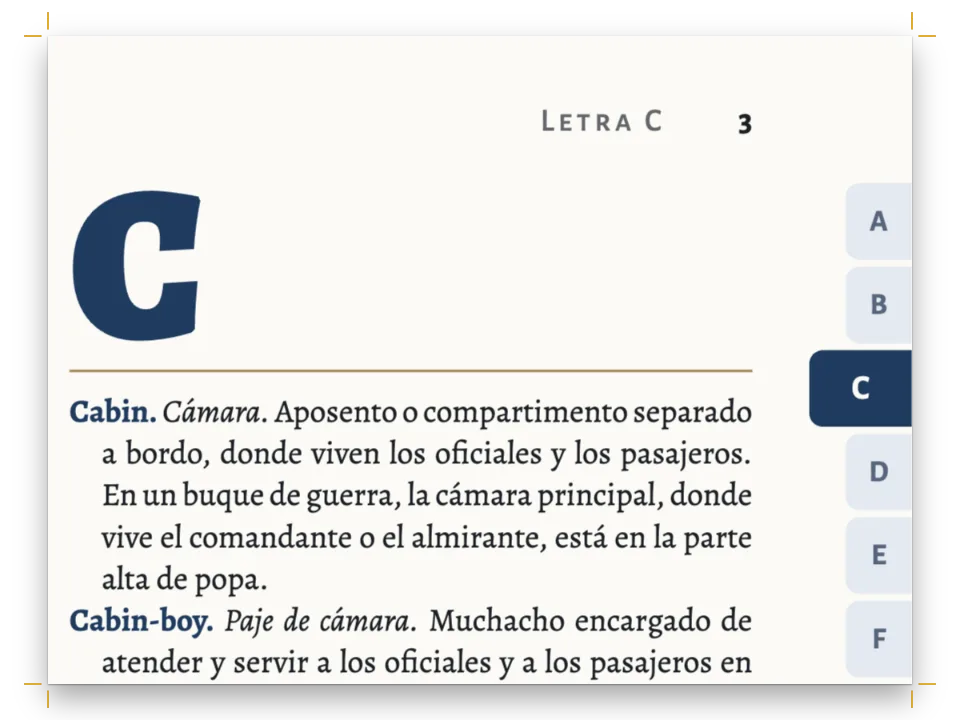
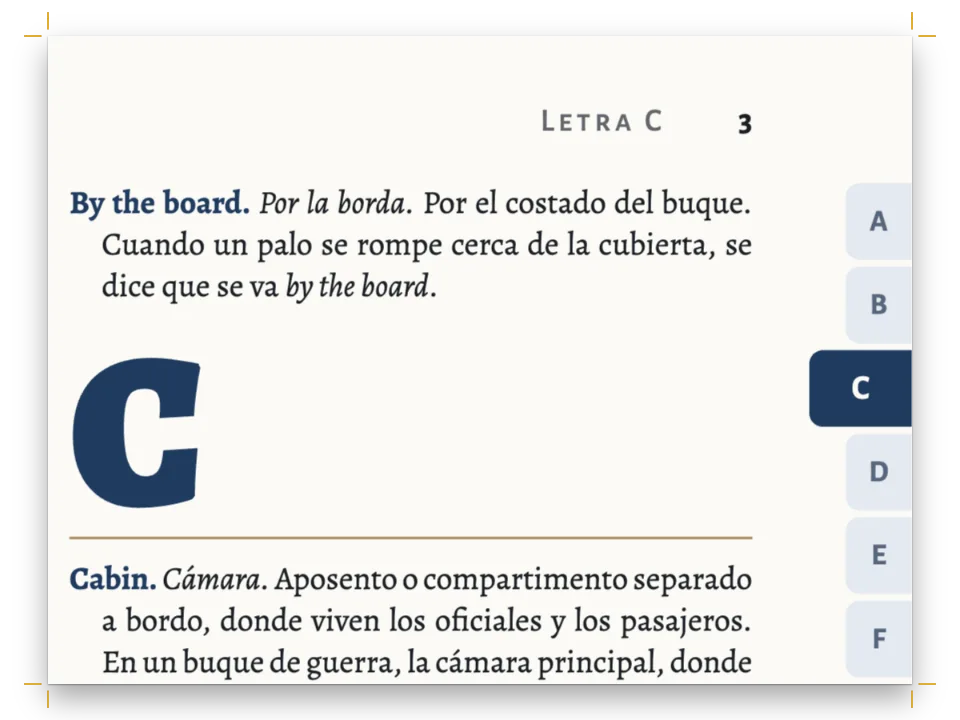
content(cookbook): dictionary-thumb-index — Bluff fills the short first column of page 3 (#1343)

Changed region(s): [[0.0625, 0.2444, 0.7812, 0.9472]]

diff --git a/cookbook/dictionary-thumb-index/script.js b/cookbook/dictionary-thumb-index/script.js
@@ -1,7 +1,7 @@
 // ═══ Postext Cookbook · Nº 046 · Dictionary with a moving thumb index ═══════════════
 // https://postext.dev/en/cookbook/dictionary-thumb-index
 // Code: MIT · Text: W. H. Smyth, 1867 (PD); Spanish translation CC BY 4.0 · Pictures: code
-// Fonts: Alegreya, Alegreya SC, Alegreya Sans SC (SIL OFL 1.1) · Needs postext ≥ 1.57.0
+// Fonts: Alegreya, Alegreya SC, Alegreya Sans SC (SIL OFL 1.1) · Needs postext ≥ 1.65.0
 import {
   buildDocumentWithFonts, renderPageToCanvas, registerResourceImage,
 } from 'https://esm.sh/postext';

diff --git a/cookbook/dictionary-thumb-index/content.es.md b/cookbook/dictionary-thumb-index/content.es.md
@@ -58,6 +58,8 @@ author: "W. H. Smyth"
 
 **Bitter-end.** *Chicote.* La parte del cable que queda a popa de las bitas, y por tanto dentro de la borda, cuando el buque está fondeado. Dicen «Bend to the bitter-end» cuando quieren entalingar ese chicote al ancla; y cuando una cadena o un cabo se han filado hasta el *bitter-end*, no queda más por largar. El *bitter-end* es el chicote de la talinga: a veces se entalinga ese al ancla, porque no se ha usado nunca y es más de fiar. De un cable de 115 brazas, las primeras 40 suelen estar gastadas cuando el chicote de dentro está casi nuevo.
 
+**Bluff.** *Morro.* Tierra alta y abrupta que se adelanta casi a plomo sobre el mar y presenta un frente atrevido, más redondeado que acantilado.
+
 **Booby.** *Piquero.* Conocida ave marina tropical, *Sula fusca*, de la familia de los *Pelecanidae*. Gusta de descansar fuera del agua por la noche, y hasta prefiere una percha inestable en la verga de un buque. El nombre inglés, que vale tanto como «bobo», le viene de lo fácil que se deja atrapar recién posado. La dirección en que vuelan al caer la tarde indica a menudo dónde hay tierra.
 
 **Brace of shakes.** *Un santiamén.* Un momento, tomado del flamear de una vela: «Estaré contigo antes de que flamee tres veces».

diff --git a/cookbook/dictionary-thumb-index/content.en.md b/cookbook/dictionary-thumb-index/content.en.md
@@ -59,6 +59,8 @@ author: "W. H. Smyth"
 
 **Bitter-end.** That part of the cable which is abaft the bitts, and therefore within board when the ship rides at anchor. They say, “Bend to the bitter-end” when they would have that end bent to the anchor, and when a chain or rope is paid out to the bitter-end, no more remains to be let go. The bitter-end is the clinching end – sometimes that end is bent to the anchor, because it has never been used, and is more trustworthy. The first 40 fathoms of a cable of 115 fathoms is generally worn out when the inner end is comparatively new.
 
+**Bluff.** An abrupt high land, projecting almost perpendicularly into the sea, and presenting a bold front, rather rounded than cliffy in outline.
+
 **Booby.** A well-known tropical sea-bird, *Sula fusca*, of the family *Pelecanidae*. It is fond of resting out of the water at night, even preferring an unstable perch on the yard of a ship. The name is derived from the way in which it allows itself to be caught immediately after settling. The direction in which they fly as evening comes on often shows where land may be found.
 
 **Brace of shakes.** A moment: taken from the flapping of a sail. I will be with you before it shakes thrice.
